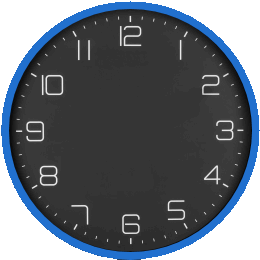
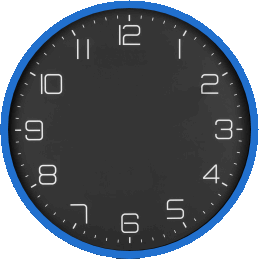
Sergiye Clock: dial centered under the hands

diff --git a/sergiyeClock.gadget/js/clock.js b/sergiyeClock.gadget/js/clock.js
@@ -203,8 +203,8 @@ function settingsChanged()
 		case "black":
 			clockPartsWidth = 13;
 			clockPartsHeight = 129;
-			clockPartsTop = -1;
-			clockPartsLeft = 57;
+			clockPartsTop = 0;
+			clockPartsLeft = 58;
 			break;
 	}
 	
